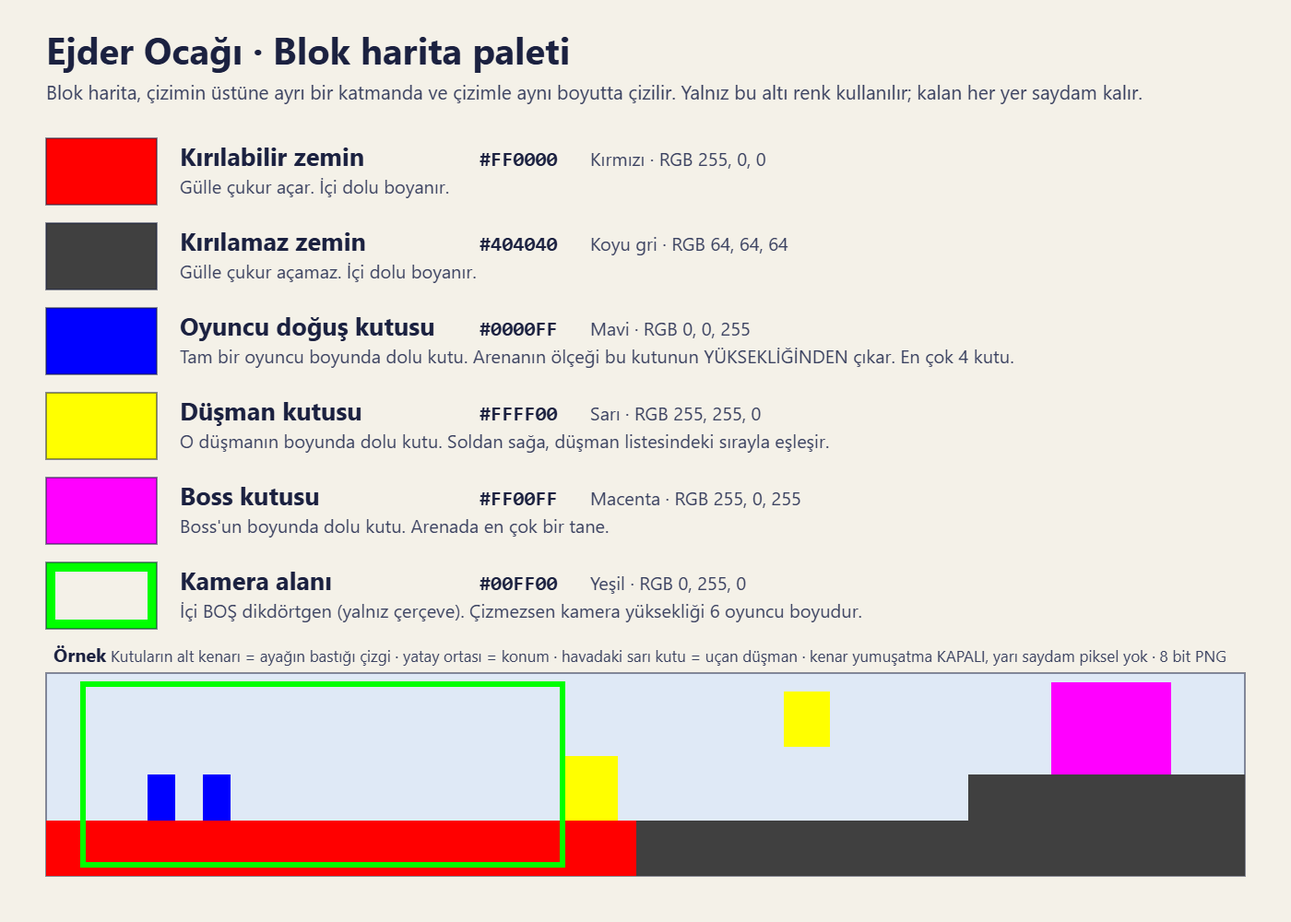
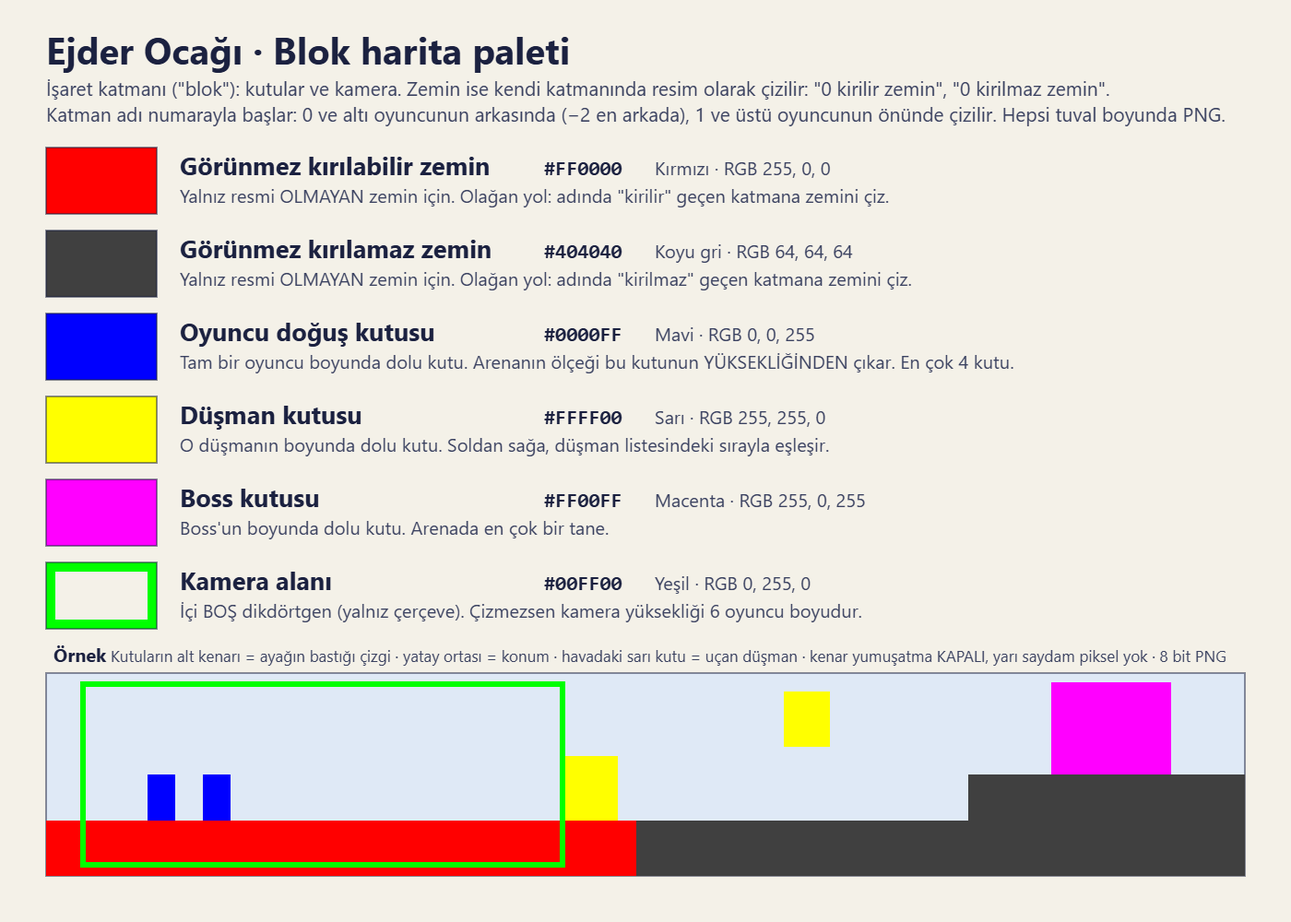
Arena katmanlari: numarali Krita katmanlari (0 ve alti oyuncunun arkasi, 1 ve ustu onu), kirilir ve kirilmaz zemin katmanlari resimden okunur, gulle kirilir zemin resmini oyar; palet ve belge guncel

diff --git a/eo2/js/battle.js b/eo2/js/battle.js
@@ -88,8 +88,8 @@
   const solid = (T, wx, wy) => { const i = Math.floor(wx * MP), j = Math.floor(wy * MP); return i >= 0 && j >= 0 && i < MW && j < MH && T.mask[j * MW + i] > 0; };
   function carve(T, cx, cy, rad) { if (M && M.cfg && M.cfg.kirilmaz) return;   // kırılmaz zemin (ör. Şahmeran'ın defilesi): gülle çukur açmaz
     const r2 = rad * rad; for (let j = Math.max(0, Math.floor((cy - rad) * MP)); j <= Math.min(MH - 1, Math.ceil((cy + rad) * MP)); j++) for (let i = Math.max(0, Math.floor((cx - rad) * MP)); i <= Math.min(MW - 1, Math.ceil((cx + rad) * MP)); i++) { const dx = (i + 0.5) / MP - cx, dy = (j + 0.5) / MP - cy; if (dx * dx + dy * dy < r2 && T.mask[j * MW + i] === 1) { T.mask[j * MW + i] = 0;   // 2 = kırılmaz hücre (blok haritada koyu gri): gülle açamaz
-        if (T.delik) { T.x.fillStyle = 'rgb(9,12,26)'; T.x.beginPath(); T.x.arc((i + 0.5) / MP * TP, (FH - (j + 0.5) / MP) * TP, TP / MP * 0.85, 0, 6.3); T.x.fill(); } } }   // sahne resimli arenada çukur koyu oyuk olarak görünür
-    if (T.delik) return;
+        if (T.delik && !(M.katman && M.katman.some(k => k.cv))) { T.x.fillStyle = 'rgb(9,12,26)'; T.x.beginPath(); T.x.arc((i + 0.5) / MP * TP, (FH - (j + 0.5) / MP) * TP, TP / MP * 0.85, 0, 6.3); T.x.fill(); } } }   // çizimi olmayan (blok haritada kırmızı) zeminde çukur koyu oyuk olarak görünür
+    if (T.delik) { const sh = M.cfg.sahne; if (sh && M.katman) for (const k of M.katman) if (k.cv) { const g = k.cv.getContext('2d'); g.save(); g.globalCompositeOperation = 'destination-out'; g.beginPath(); g.arc(cx * sh.ppu, k.cv.height - (cy - (sh.taban || 0)) * sh.ppu, rad * sh.ppu, 0, 6.3); g.fill(); g.restore(); } return; }   // kırılabilir zemin katmanının resmi oyulur: arkadaki katmanlar görünür
     const x = T.x, px = cx * TP, py = (FH - cy) * TP; x.save(); x.globalCompositeOperation = 'destination-out'; x.beginPath(); for (let a = 0; a <= 6.3; a += 0.3) { const rr = rad * TP * (0.94 + Math.sin(a * 5 + cx) * 0.06); a === 0 ? x.moveTo(px + rr, py) : x.lineTo(px + Math.cos(a) * rr, py + Math.sin(a) * rr); } x.closePath(); x.fill();
     x.globalCompositeOperation = 'source-atop'; const g = x.createRadialGradient(px, py, rad * TP * 0.9, px, py, rad * TP * 1.45); g.addColorStop(0, T.Tm.oyuk); g.addColorStop(1, 'rgba(0,0,0,0)'); x.fillStyle = g; x.beginPath(); x.arc(px, py, rad * TP * 1.45, 0, 6.3); x.fill();
     x.lineWidth = 3; x.strokeStyle = T.Tm.cizgi; x.beginPath(); x.arc(px, py, rad * TP * 0.99, 0, 6.3); x.stroke(); x.restore();
@@ -171,11 +171,12 @@
   async function ac(cfg) {
     if (M && M.on) kapat(true); ensureDom(); const api = EO2.api, T = buildTerrain(cfg.arazi);
     const setler = new Set(['temel']); if (cfg.oyuncu && cfg.oyuncu.set) setler.add(cfg.oyuncu.set); if (cfg.rakip && cfg.rakip.set) setler.add(cfg.rakip.set);
-    const bek = []; for (const s of setler) bek.push(load('assets/battle_' + s + '.webp')); if (cfg.bg) bek.push(load(cfg.bg)); if (cfg.sahne) bek.push(load(cfg.sahne.src));
+    const bek = []; for (const s of setler) bek.push(load('assets/battle_' + s + '.webp')); if (cfg.bg) bek.push(load(cfg.bg)); if (cfg.sahne) for (const k of cfg.sahne.katman) bek.push(load(k.src));
     const tipler = [...(cfg.moblar || []).map(m => MOB[m.tip]), cfg.boss ? BOSS[cfg.boss.tip] : null].filter(Boolean); for (const t of tipler) for (const k in t.spr) if (typeof t.spr[k] === 'string' && /\.webp$/.test(t.spr[k])) bek.push(load(t.spr[k])); for (const p of (cfg.props || [])) if (PROP[p.tip] && PROP[p.tip].im) bek.push(load(PROP[p.tip].im));
     await Promise.all(bek);
+    const katman = cfg.sahne ? cfg.sahne.katman.map(k => { const im = imgs[k.src]; if (!im) return null; const o = { im, z: k.z, zemin: k.zemin }; if (k.zemin === 'kirilir') { o.cv = document.createElement('canvas'); o.cv.width = im.naturalWidth; o.cv.height = im.naturalHeight; o.cv.getContext('2d').drawImage(im, 0, 0); } return o; }).filter(Boolean) : null;
     if (!cfg.bg && !cfg.sahne && !talimBg) { talimBg = buildBackdrop(); talimProps = buildProps(); const art = EO2.art, E = api.W.E; poles = [art.bannerPole(E, '#213270').c, art.bannerPole(E, '#bb362f').c]; }
-    M = { on: true, cfg, T, time: 0, tur: 1, faz: 'giris', pt: 0, timer: 25, wind: 0, charge: 0, charging: false, shots: [], parts: [], nums: [], bolge: [], lav: [], isin: [], dalga: [], zaman: [], shake: 0, stop: 0, over: false, keys: {}, cam: { x: 32, y: 12, z: 0.5 },
+    M = { on: true, cfg, T, katman, time: 0, tur: 1, faz: 'giris', pt: 0, timer: 25, wind: 0, charge: 0, charging: false, shots: [], parts: [], nums: [], bolge: [], lav: [], isin: [], dalga: [], zaman: [], shake: 0, stop: 0, over: false, keys: {}, cam: { x: 32, y: 12, z: 0.5 },
       act: [], props: [], sira: [], si: -1, aktif: null, ist: { hasar: 0, tur: 1, kritik: 0, kombo: 0, enKombo: 0, mob: 0 }, ortam: Array.from({ length: 34 }, () => ({ x: Math.random(), y: Math.random(), s: 0.5 + Math.random() * 0.8, p: Math.random() * 6 })), tick: 0 };
     M.sonuc = new Promise(res => { M.bitir = res; }); M.deniz = cfg.deniz != null ? Y_(cfg.deniz) : null; M.cikis = cfg.cikis || null; M.ruzgarSirasi = cfg.ruzgar || null;
     const O = cfg.oyuncu || {}, pset = imgs['assets/battle_' + O.set] ? O.set : 'temel';
@@ -460,9 +461,9 @@
     const x = cv.getContext('2d'), n = M.cfg.bg || M.cfg.sahne ? 0 : (EO2.state ? EO2.state.night : 0), c = M.cam, dik = W / H < 1, kb = !dik && M.cfg.kameraBoy ? M.cfg.kameraBoy * 1.7 : 0, sc = (kb ? H / kb : (W / 22) * (dik ? 1.9 : 1)) * c.z, viewW = W / sc, viewH = H / sc, AE = M.cfg.arenaEn || FW, pay = 2;
     const cx = clamp(c.x, Math.min(AE / 2, viewW / 2 - pay), Math.max(AE / 2, AE - viewW / 2 + pay)) + (Math.random() - 0.5) * M.shake * 0.5, cy = clamp(c.y, viewH / 2 - pay, 40) + (Math.random() - 0.5) * M.shake * 0.5;
     const X = wx => (wx - cx) * sc + W / 2, Y = wy => H / 2 - (wy - cy) * sc + H * 0.02; M.view = { X, Y, sc, W, H };
-    x.setTransform(1, 0, 0, 1, 0, 0); const T = M.T, Tm = T.Tm, bgI = M.cfg.bg ? imgs[M.cfg.bg] : null, sh = M.cfg.sahne, shI = sh ? imgs[sh.src] : null;
+    x.setTransform(1, 0, 0, 1, 0, 0); const T = M.T, Tm = T.Tm, bgI = M.cfg.bg ? imgs[M.cfg.bg] : null, sh = M.cfg.sahne, shI = sh && M.katman && M.katman.length ? M.katman[0].im : null;
     if (shI) { // dünyaya kilitli sahne resmi (cfg.sahne = { src, ppu: birim başına resim pikseli, ust, alt }): resim dünya boyunca uzanır, zemin çizgisi araziyle çakışır; arazi ayrıca çizilmez
-      const kk = sc / sh.ppu, ih = shI.naturalHeight * kk, iy = Y(sh.taban || 0) - ih; x.fillStyle = sh.alt; x.fillRect(0, 0, W, H); x.fillStyle = sh.ust; x.fillRect(0, 0, W, Math.max(0, iy + 2)); x.drawImage(shI, X(0), iy, shI.naturalWidth * kk, ih);   // resmin sol alt köşesi dünyada (0, taban); ölçek blok haritadaki mavi kutudan
+      const kk = sc / sh.ppu, ih = shI.naturalHeight * kk, iy = Y(sh.taban || 0) - ih; x.fillStyle = sh.alt; x.fillRect(0, 0, W, H); x.fillStyle = sh.ust; x.fillRect(0, 0, W, Math.max(0, iy + 2)); for (const k of M.katman) if (k.z <= 0) x.drawImage(k.cv || k.im, X(0), iy, shI.naturalWidth * kk, ih);   // 0 ve altı: oyuncunun arkası (küçük numara daha arkada)   // resmin sol alt köşesi dünyada (0, taban); ölçek blok haritadaki mavi kutudan
     } else if (bgI) { // eski oyunun sahne çizimi: ekranı kaplar, kamerayla hafifçe kayar
       const k = Math.max(W / bgI.naturalWidth, H / bgI.naturalHeight) * 1.14, bw = bgI.naturalWidth * k, bh = bgI.naturalHeight * k, ox = (W - bw) / 2 - (cx - 32) / 32 * (bw - W) * 0.42, oy = (H - bh) / 2 + (cy - 12) * sc * 0.05;
       x.fillStyle = '#060a1c'; x.fillRect(0, 0, W, H); x.drawImage(bgI, ox, clamp(oy, H - bh, 0), bw, bh);
@@ -509,6 +510,7 @@
       x.drawImage(im, sx, sy, m.cw, m.ch, -m.ax * s, -m.ay * s + 3, m.cw * s, m.ch * s);
       if (a.hurtT > 0.42) { x.globalCompositeOperation = 'lighter'; x.globalAlpha = (a.hurtT - 0.42) / 0.13 * 0.8; x.drawImage(im, sx, sy, m.cw, m.ch, -m.ax * s, -m.ay * s + 3, m.cw * s, m.ch * s); x.globalCompositeOperation = 'source-over'; } x.restore();
       if (a.yoldas && !a.dead) { x.font = '700 ' + Math.max(11, 0.3 * sc) + "px 'Alegreya Sans', sans-serif"; x.textAlign = 'center'; x.lineWidth = 3; x.strokeStyle = '#06202a'; x.fillStyle = '#9fe8d0'; x.strokeText(a.ad, X(a.x), Y(a.y + 2.55)); x.fillText(a.ad, X(a.x), Y(a.y + 2.55)); } }
+    if (shI) { const kk = sc / sh.ppu, ih = shI.naturalHeight * kk, iy = Y(sh.taban || 0) - ih; for (const k of M.katman) if (k.z > 0) x.drawImage(k.cv || k.im, X(0), iy, shI.naturalWidth * kk, ih); }   // 1 ve üstü: oyuncunun önü
     // zayıf nokta nişanı: güç toplarken ya da boss açık verdiğinde
     const b = M.boss; if (b && !b.dead && b.D.zayif && (M.charging && M.aktif === M.ben || b.acik)) for (const z of b.D.zayif(b)) { x.strokeStyle = b.acik ? 'rgba(143,255,224,.95)' : 'rgba(255,224,138,.9)'; x.lineWidth = Math.max(2, 0.05 * sc); x.setLineDash([0.16 * sc, 0.16 * sc]); x.beginPath(); x.arc(X(z.x), Y(z.y), z.r * sc, 0, 6.3); x.stroke(); x.setLineDash([]); x.font = '800 ' + Math.max(11, 0.34 * sc) + "px 'Alegreya Sans', sans-serif"; x.textAlign = 'center'; x.fillStyle = '#ffe08a'; x.strokeStyle = '#0f1a40'; x.lineWidth = 3; x.strokeText(z.ad, X(z.x), Y(z.y + z.r) - 6); x.fillText(z.ad, X(z.x), Y(z.y + z.r) - 6); }
     // nişan çizgisi ve yörünge ipucu (yalnız oyuncunun sırası)

diff --git a/eo2/js/arena_veri.js b/eo2/js/arena_veri.js
@@ -3,8 +3,8 @@
 (function (kok) {
   'use strict';
   const ARENA = {
-    "zumrut-defile": {"ad":"Şahmeran'ın Defilesi","alt":"Yılan Kraliçe yükseltide bekliyor","ipucu":"Zemin kırılmaz. Altın tacı zayıf noktasıdır. Her tur yerdeki halkadan çık, sonra ateş et.","tema":"sirca","ortam":"spor","sahne":{"src":"arenalar/zumrut-defile/sahne.webp","ust":"#0d3327","alt":"#0a2a20"},"ppu":70,"en":63.7,"boy":13.44,"taban":7.375,"px":[4459,941],"kameraBoy":6,"kamera":null,"oyuncu":[{"x":3,"y":11.06,"h":1.7,"w":1.03},{"x":5.8,"y":11.06,"h":1.7,"w":1.03},{"x":8.61,"y":11.06,"h":1.7,"w":1.03},{"x":11.43,"y":11.06,"h":1.7,"w":1.03}],"dusman":[{"tip":"zs_agir","ad":"Sırça Taht Muhafızı","hp":640,"fizik":true,"hayalet":false,"x":29.23,"y":11.06,"h":2.4,"w":3.71},{"tip":"zs_agir","ad":"Sırça Taht Muhafızı","hp":640,"fizik":true,"hayalet":false,"x":38.97,"y":11.06,"h":2.4,"w":3.71}],"boss":{"tip":"sahmeran_v3","ad":"Yılan Kraliçe Şahmeran","unvan":"Zümrüt Saray'ın ebedi hükümdarı","hp":3600,"x":51.71,"y":13.03,"h":6.8,"w":6},"maske":[0,30208,2,510,0,2,2,510,0,2,2,510,0,2,2,510,0,2,2,510,0,2,2,510,0,2,2,510,0,2,2,510,0,2,2,510,0,2,2,510,0,2,2,510,0,2,2,510,0,2,2,510,0,2,2,510,0,2,2,510,0,2,2,510,0,2,2,510,0,2,2,510,0,2,2,510,0,2,2,510,0,2,2,510,0,2,2,510,0,2,2,510,0,2,2,510,0,2,2,510,0,2,2,510,0,2,2,510,0,2,2,510,0,2,2,510,0,362,2,150,0,363,2,149,0,364,2,148,0,365,2,147,0,366,2,146,0,367,2,145,0,369,2,143,0,370,2,142,0,371,2,141,0,372,2,140,0,373,2,139,0,374,2,138,0,376,2,136,0,377,2,135,0,378,2,134,0,379,2,133,0,69634]},
-    "zumrut-kopru": {"ad":"Zümrüt Saray Köprüsü","alt":"Yılanlar iki yandan geliyor","ipucu":"Yılanlar iki yandan gelir. Fareyi çevirdiğin yana döner, o yana ateş edersin. Önce yaklaşanı vur.","tema":"sirca","ortam":"spor","sahne":{"src":"arenalar/zumrut-kopru/sahne.webp","ust":"#6fafFd","alt":"#e8f2fb"},"ppu":87.647,"en":63.85,"boy":14.73,"taban":6.625,"px":[5596,1291],"kameraBoy":6,"kamera":null,"oyuncu":[{"x":26.29,"y":10.94,"h":1.7,"w":1.03},{"x":29.11,"y":10.94,"h":1.7,"w":1.03},{"x":31.92,"y":10.94,"h":1.7,"w":1.03},{"x":34.74,"y":10.94,"h":1.7,"w":1.03}],"dusman":[{"tip":"viper","ad":"Uçan Sırça Engereği","hp":800,"fizik":false,"hayalet":false,"x":7.13,"y":18.66,"h":2.69,"w":2.62},{"tip":"zs_vurucu","ad":"Bronz Engerek Muhafızı","hp":760,"fizik":true,"hayalet":false,"x":14.27,"y":10.94,"h":2.4,"w":3.65},{"tip":"zs_vurucu","ad":"Bronz Engerek Muhafızı","hp":760,"fizik":true,"hayalet":false,"x":49.57,"y":10.94,"h":2.4,"w":3.65},{"tip":"viper","ad":"Uçan Sırça Engereği","hp":800,"fizik":false,"hayalet":false,"x":56.72,"y":18.66,"h":2.69,"w":2.62}],"boss":null,"maske":[0,27136,2,511,0,1,2,511,0,1,2,511,0,1,2,511,0,1,2,511,0,1,2,511,0,1,2,511,0,1,2,511,0,1,2,511,0,1,2,511,0,1,2,511,0,1,2,511,0,1,2,511,0,1,2,511,0,1,2,511,0,1,2,511,0,1,2,511,0,1,2,511,0,1,2,511,0,1,2,511,0,1,2,511,0,1,2,511,0,1,2,511,0,1,2,511,0,1,2,511,0,1,2,511,0,1,2,511,0,1,2,511,0,1,2,511,0,1,2,511,0,1,2,511,0,1,2,511,0,1,2,511,0,1,2,511,0,1,2,511,0,77825]}
+    "zumrut-defile": {"ad":"Şahmeran'ın Defilesi","alt":"Yılan Kraliçe yükseltide bekliyor","ipucu":"Zemin kırılmaz. Altın tacı zayıf noktasıdır. Her tur yerdeki halkadan çık, sonra ateş et.","tema":"sirca","ortam":"spor","sahne":{"ust":"#0d3327","alt":"#0a2a20"},"katman":[{"src":"arenalar/zumrut-defile/sahne.webp","z":-1}],"ppu":70,"en":63.7,"boy":13.44,"taban":7.375,"px":[4459,941],"kameraBoy":6,"kamera":null,"oyuncu":[{"x":3,"y":11.06,"h":1.7,"w":1.03},{"x":5.8,"y":11.06,"h":1.7,"w":1.03},{"x":8.61,"y":11.06,"h":1.7,"w":1.03},{"x":11.43,"y":11.06,"h":1.7,"w":1.03}],"dusman":[{"tip":"zs_agir","ad":"Sırça Taht Muhafızı","hp":640,"fizik":true,"hayalet":false,"x":29.23,"y":11.06,"h":2.4,"w":3.71},{"tip":"zs_agir","ad":"Sırça Taht Muhafızı","hp":640,"fizik":true,"hayalet":false,"x":38.97,"y":11.06,"h":2.4,"w":3.71}],"boss":{"tip":"sahmeran_v3","ad":"Yılan Kraliçe Şahmeran","unvan":"Zümrüt Saray'ın ebedi hükümdarı","hp":3600,"x":51.71,"y":13.03,"h":6.8,"w":6},"maske":[0,30208,2,510,0,2,2,510,0,2,2,510,0,2,2,510,0,2,2,510,0,2,2,510,0,2,2,510,0,2,2,510,0,2,2,510,0,2,2,510,0,2,2,510,0,2,2,510,0,2,2,510,0,2,2,510,0,2,2,510,0,2,2,510,0,2,2,510,0,2,2,510,0,2,2,510,0,2,2,510,0,2,2,510,0,2,2,510,0,2,2,510,0,2,2,510,0,2,2,510,0,2,2,510,0,2,2,510,0,2,2,510,0,2,2,510,0,362,2,150,0,363,2,149,0,364,2,148,0,365,2,147,0,366,2,146,0,367,2,145,0,369,2,143,0,370,2,142,0,371,2,141,0,372,2,140,0,373,2,139,0,374,2,138,0,376,2,136,0,377,2,135,0,378,2,134,0,379,2,133,0,69634]},
+    "zumrut-kopru": {"ad":"Zümrüt Saray Köprüsü","alt":"Yılanlar iki yandan geliyor","ipucu":"Yılanlar iki yandan gelir. Fareyi çevirdiğin yana döner, o yana ateş edersin. Önce yaklaşanı vur.","tema":"sirca","ortam":"spor","sahne":{"ust":"#6fafFd","alt":"#e8f2fb"},"katman":[{"src":"arenalar/zumrut-kopru/sahne.webp","z":-1}],"ppu":87.647,"en":63.85,"boy":14.73,"taban":6.625,"px":[5596,1291],"kameraBoy":6,"kamera":null,"oyuncu":[{"x":26.29,"y":10.94,"h":1.7,"w":1.03},{"x":29.11,"y":10.94,"h":1.7,"w":1.03},{"x":31.92,"y":10.94,"h":1.7,"w":1.03},{"x":34.74,"y":10.94,"h":1.7,"w":1.03}],"dusman":[{"tip":"viper","ad":"Uçan Sırça Engereği","hp":800,"fizik":false,"hayalet":false,"x":7.13,"y":18.66,"h":2.69,"w":2.62},{"tip":"zs_vurucu","ad":"Bronz Engerek Muhafızı","hp":760,"fizik":true,"hayalet":false,"x":14.27,"y":10.94,"h":2.4,"w":3.65},{"tip":"zs_vurucu","ad":"Bronz Engerek Muhafızı","hp":760,"fizik":true,"hayalet":false,"x":49.57,"y":10.94,"h":2.4,"w":3.65},{"tip":"viper","ad":"Uçan Sırça Engereği","hp":800,"fizik":false,"hayalet":false,"x":56.72,"y":18.66,"h":2.69,"w":2.62}],"boss":null,"maske":[0,27136,2,511,0,1,2,511,0,1,2,511,0,1,2,511,0,1,2,511,0,1,2,511,0,1,2,511,0,1,2,511,0,1,2,511,0,1,2,511,0,1,2,511,0,1,2,511,0,1,2,511,0,1,2,511,0,1,2,511,0,1,2,511,0,1,2,511,0,1,2,511,0,1,2,511,0,1,2,511,0,1,2,511,0,1,2,511,0,1,2,511,0,1,2,511,0,1,2,511,0,1,2,511,0,1,2,511,0,1,2,511,0,1,2,511,0,1,2,511,0,1,2,511,0,1,2,511,0,1,2,511,0,1,2,511,0,1,2,511,0,77825]}
   };
   if (typeof module !== 'undefined' && module.exports) module.exports = ARENA; else kok.EO2_ARENA = ARENA;
 })(typeof window !== 'undefined' ? window : this);

diff --git a/tests/zindan_tarif.test.js b/tests/zindan_tarif.test.js
@@ -18,7 +18,7 @@ test('her zindan tarifi tam: yazılar, ödül kaynağı, arenalar; her arenanın
     assert.ok(new RegExp('\\b' + Z.odul + ': \\{ ad:').test(veri), k + ': odul "' + Z.odul + '" js/topcu_veri.js ZINDAN içinde yok');
     assert.ok(Array.isArray(Z.asama) && Z.asama.length >= 1, k + ': en az bir aşama');
     Z.asama.forEach((ad, i) => { const A = ARENA[ad]; assert.ok(A, k + ': "' + ad + '" arenası derlenmemiş (eo2/arenalar/' + ad + ' ve node eo2/tools/arena_derle.mjs)');
-      assert.ok(fs.existsSync(path.join(kok, A.sahne.src)), ad + ': sahne resmi yok'); assert.ok(A.en <= 64 && A.taban + A.boy <= 30 && A.ppu > 0, ad + ': ölçü');
+      assert.ok(A.katman.length >= 1); for (const k of A.katman) assert.ok(fs.existsSync(path.join(kok, decodeURIComponent(k.src))), ad + ': katman resmi yok: ' + k.src); assert.ok(A.en <= 64 && A.taban + A.boy <= 30 && A.ppu > 0, ad + ': ölçü');
       assert.ok(A.oyuncu.length >= 1 && Math.abs(A.oyuncu[0].h - 1.7) < 0.02, ad + ': mavi kutu oyuncu boyunda');
       const dus = A.dusman.concat(A.boss ? [A.boss] : []); assert.ok(dus.length >= 1);
       for (const q of dus) { assert.ok(q.x > 0 && q.x < A.en && q.h > 0.5, ad + ': ' + q.ad + ' yeri ve boyu'); assert.ok(veri.includes(q.tip + ':') || veri.includes('.' + q.tip + ' ='), ad + ': "' + q.tip + '" js/topcu_veri.js içinde tanımlı değil'); }
@@ -42,11 +42,26 @@ test('blok harita okuyucu: ölçek mavi kutudan, zemin kırılır ve kırılmaz,
   const m = new Uint8Array(512 * 240); let p = 0; for (let i = 0; i < b.maske.length; i += 2) { m.fill(b.maske[i], p, p + b.maske[i + 1]); p += b.maske[i + 1]; } assert.equal(p, 512 * 240);
   const hucre = (x, y) => m[Math.floor(y * 8) * 512 + Math.floor(x * 8)]; assert.equal(hucre(10, 10.9), 1); assert.equal(hucre(40, 10.9), 2); assert.equal(hucre(10, 11.1), 0); assert.equal(hucre(40, 6.1), 2); assert.equal(hucre(40, 5.9), 0);
   const json = { ad: 'A', alt: 'B', ipucu: 'C', tema: 'sirca', ortam: 'spor', ust: '#000', altRenk: '#000', dusman: [{ tip: 'viper', ad: 'Uçan', hp: 10, fizik: false, hayalet: true }, { tip: 'cobra', ad: 'Yerde', hp: 20 }], boss: { tip: 'sahmeran', ad: 'Boss', unvan: 'U', hp: 30 } };
-  const A = arenaKur('deneme', json, b); assert.deepEqual(A.dusman.map(q => [q.fizik, q.hayalet, q.hp]), [[false, true, 10], [true, false, 20]]); assert.equal(A.kameraBoy, 6); assert.equal(A.boss.h, 6.8);
+  const A = arenaKur('deneme', json, b, [{ src: 'x', z: -1 }]); assert.deepEqual(A.dusman.map(q => [q.fizik, q.hayalet, q.hp]), [[false, true, 10], [true, false, 20]]); assert.equal(A.kameraBoy, 6); assert.equal(A.boss.h, 6.8);
   assert.throws(() => arenaKur('deneme', Object.assign({}, json, { dusman: json.dusman.slice(1) }), b), /1 düşman sayıyor, blok haritada 2 sarı kutu/);
   assert.throws(() => arenaKur('deneme', Object.assign({}, json, { boss: null }), b), /macenta|boss/);
   const bos = Buffer.alloc(w * h * 4); assert.throws(() => blokOku({ w, h, rgba: bos }, 'bos'), /mavi oyuncu kutusu yok/);
   dolu(40, 133, 50, 150, [0, 0, 0]); dolu(40, 140, 50, 150, RENK.oyuncu); assert.throws(() => blokOku({ w, h, rgba: d }, 'buyuk'), /çok büyük/);
+});
+
+test('katman dosyaları: numara çizim sırasını, addaki "kirilir" ve "kirilmaz" zemini söyler; zemin katmanı haritaya işlenir', async () => {
+  const { katmanlariBul, blokOku, RENK } = await import('../eo2/tools/arena_derle.mjs');
+  const K = katmanlariBul(['1 ön perde.webp', 'blok.png', '0 Kırılmaz kaya.png', '-2_gokyuzu.png', 'arena.json', '0 kirilir zemin.png', 'calisma.kra', '-1 duvar.png'], 'd');
+  assert.deepEqual(K.map(k => [k.z, k.zemin, k.dosya]), [[-2, null, '-2_gokyuzu.png'], [-1, null, '-1 duvar.png'], [0, 'kirilmaz', '0 Kırılmaz kaya.png'], [0, 'kirilir', '0 kirilir zemin.png'], [1, null, '1 ön perde.webp']]);
+  assert.deepEqual(katmanlariBul(['sahne.webp', 'blok.png'], 'd').map(k => k.z), [-1], 'eski tek resimli biçim: sahne = −1');
+  assert.throws(() => katmanlariBul(['arka plan.png'], 'd'), /numarasıyla başlamalı/); assert.throws(() => katmanlariBul(['0 kirilir zemin.webp'], 'd'), /PNG olmalı/); assert.throws(() => katmanlariBul(['blok.png'], 'd'), /hiç katman/);
+  const w = 640, h = 200, bos = () => Buffer.alloc(w * h * 4), dolu = (d, x0, y0, x1, y1, c, a = 255) => { for (let y = y0; y < y1; y++) for (let x = x0; x < x1; x++) { const i = (y * w + x) * 4; d[i] = c[0]; d[i + 1] = c[1]; d[i + 2] = c[2]; d[i + 3] = a; } };
+  const blok = bos(), zemin = bos(), kaya = bos(); dolu(blok, 40, 133, 50, 150, RENK.oyuncu); dolu(blok, 500, 126, 520, 150, RENK.dusman);
+  dolu(zemin, 0, 150, 640, 200, [120, 80, 50]); dolu(zemin, 0, 140, 640, 150, [60, 150, 60], 90); dolu(kaya, 320, 150, 640, 200, [90, 90, 100]);
+  const b = blokOku({ w, h, rgba: blok }, 'd', [{ tip: 'kirilir', rgba: zemin }, { tip: 'kirilmaz', rgba: kaya }]);
+  const m = new Uint8Array(512 * 240); let p = 0; for (let i = 0; i < b.maske.length; i += 2) { m.fill(b.maske[i], p, p + b.maske[i + 1]); p += b.maske[i + 1]; }
+  const hucre = (x, y) => m[Math.floor(y * 8) * 512 + Math.floor(x * 8)];
+  assert.equal(hucre(10, 10.9), 1, 'çizilen yer kırılabilir zemin'); assert.equal(hucre(40, 10.9), 2, 'kırılmaz katman kırılırın üstüne yazar'); assert.equal(hucre(10, 11.5), 0, 'yarıdan saydam çizim (çim ucu) zemin sayılmaz');
 });
 
 test('oyun tarif dosyasını zindan kodundan önce yükler', () => {

diff --git a/eo2/js/zindan_ortak.js b/eo2/js/zindan_ortak.js
@@ -28,7 +28,7 @@
   const maskeAc = rle => { const m = new Uint8Array(512 * 240); let p = 0; for (let i = 0; i < rle.length; i += 2) { if (rle[i]) m.fill(rle[i], p, p + rle[i + 1]); p += rle[i + 1]; } return m; };
   const hazirAsama = {}, asamalar = k => { k = k || zid(); return hazirAsama[k] || (hazirAsama[k] = tarif(k).asama.map(ad => { const A = ARENA[ad], PX = B.api.PX;
     return { ad: A.ad, alt: A.alt, ipucu: A.ipucu, tema: A.tema, ortam: A.ortam, en: A.en, kameraBoy: A.kamera ? Math.round(A.kamera.h / 1.7 * 100) / 100 : A.kameraBoy, oyuncu: A.oyuncu, maske: maskeAc(A.maske),
-      sahne: { src: A.sahne.src, ppu: A.ppu, taban: A.taban, ust: A.sahne.ust, alt: A.sahne.alt }, mobSinir: [1.2 * PX, (A.en - 1.2) * PX],
+      sahne: { katman: A.katman, ppu: A.ppu, taban: A.taban, ust: A.sahne.ust, alt: A.sahne.alt }, mobSinir: [1.2 * PX, (A.en - 1.2) * PX],
       moblar: A.dusman.map(m => Object.assign({ tip: m.tip, ad: m.ad, x: m.x * PX, h: m.h, hayalet: m.hayalet }, m.fizik ? {} : { ucan: true, yW: m.y })),
       boss: A.boss ? { tip: A.boss.tip, ad: A.boss.ad, unvan: A.boss.unvan, x: A.boss.x * PX, h: A.boss.h } : null }; })); };
   /* doğuş yeri: gruptaki sıraya göre mavi kutulardan biri; kutu yetmezse ilk kutunun çevresine dizilir (dünya birimi) */

diff --git a/eo2/docs/ZINDAN_YONTEMI.md b/eo2/docs/ZINDAN_YONTEMI.md
@@ -17,15 +17,26 @@ Kapsam: PvE zindan aşamaları ve PvP arenaları aynı yöntemle kurulur. "KARAR
 
 ## 2. Bir arena = bir klasör
 
-`eo2/arenalar/<ad>/` (ad: küçük harf, rakam, tire). İçinde üç dosya:
+`eo2/arenalar/<ad>/` (ad: küçük harf, rakam, tire). İçinde:
 
 | Dosya | Ne |
 |---|---|
-| `sahne.webp` | Arenanın çizimi, tek resim (modüller önceden bir araçla dizilir; örnek `eo2/tools/zumrut_sahne.mjs`). Boss, düşman ve oyuncu gömülmez. |
-| `blok.png` | Krita'da çizimin üstüne, çizimle **aynı boyutta** çizilen blok harita. 8 bit PNG, kenar yumuşatma kapalı. |
-| `arena.json` | Haritadan okunamayanlar: yazılar ve düşman listesi. |
+| Numaralı katman resimleri | Krita katmanlarının dışa aktarımı. Dosya adı katman numarasıyla başlar. |
+| `blok.png` | İşaret katmanı: oyuncu, düşman ve boss kutuları, kamera çerçevesi. |
+| `arena.json` | Yazılar ve düşman listesi. |
 
 Sonra `node eo2/tools/arena_derle.mjs` çalıştırılır: bütün klasörleri okur, `eo2/js/arena_veri.js` dosyasını üretir. Oyun ve sunucu yalnız o dosyayı okur. **Yeni arena için kod yazılmaz.** Bir şey eksik ya da tutarsızsa araç, çizen kişinin anlayacağı bir hatayla durur.
+
+### Katmanlar (KARAR, 2026-11-17)
+
+- Katman adı **numarayla başlar**: `-2 gokyuzu.png`, `-1 arka duvar.png`, `0 kirilmaz zemin.png`, `1 on perde.png`.
+- **Oyuncu hep 0'dadır.** 0 ve altı oyuncunun arkasında çizilir (küçük numara daha arkada); 1 ve üstü oyuncunun önünde. Aynı numaralılar ada göre sıralanır.
+- Adında **"kirilir"** geçen katman kırılabilir zemin, **"kirilmaz"** geçen kırılamaz zemindir. O katmana çizdiğin yer zemin olur; gülle kırılabilir katmanın resmini gerçekten oyar ve arkadaki katmanlar görünür.
+- Yarıdan saydam yerler zemin sayılmaz (yumuşak fırçada çarpışma çizgisi, görünen kenarın biraz içindedir). Çarpışmaması gereken süs (sarkan çim, gölge) zemin katmanına değil başka bir katmana çizilir.
+- Bütün katmanlar tuvalin tamamı olarak, **aynı boyda** dışa aktarılır (katman içeriğine göre kırpma kapalı). Zemin katmanları PNG olmalı; ötekiler PNG ya da WebP olabilir.
+- Krita'dan: Araçlar → Betikler → Katmanları Dışa Aktar (Export Layers); "katman içeriğine göre boyut ayarla" kapalı. Dosya adlarının başına ek bir şey koyuyorsa adları numarayla başlayacak biçimde düzelt.
+- Eski tek resimli biçim geçerli: `sahne.webp` = −1 numaralı katman (Zümrüt Saray böyle).
+- SEÇİM: Krita dosyasını (.kra) doğrudan okumak yerine numaralı dışa aktarım seçildi; kullanıcının önerdiği iki yoldan sağlam olanı. Klasördeki .kra dosyası yok sayılır.
 
 ### Blok harita renkleri (KARAR)
 
@@ -33,8 +44,8 @@ Palet: `eo2/docs/blok_harita_paleti.png` (görsel) ve `eo2/docs/blok_harita_pale
 
 | Renk | Hex | Anlam |
 |---|---|---|
-| Kırmızı | `#FF0000` | Kırılabilir zemin |
-| Koyu gri | `#404040` | Kırılamaz zemin |
+| Kırmızı | `#FF0000` | Görünmez kırılabilir zemin (yalnız resmi olmayan zemin için; olağan yol zemin katmanı) |
+| Koyu gri | `#404040` | Görünmez kırılamaz zemin (aynı) |
 | Mavi | `#0000FF` | Oyuncu doğuş kutusu (dolu) |
 | Sarı | `#FFFF00` | Düşman kutusu (dolu) |
 | Macenta | `#FF00FF` | Boss kutusu (dolu) |
@@ -86,8 +97,9 @@ Bugün: düşman ve boss türleri `eo2/js/topcu_veri.js` içinde tanımlı (eski
 
 ## 6. Bugünkü durum ve bilinen eksikler
 
-- Kurulu: klasör + blok harita + derleyici; Zümrüt Saray'ın iki arenası bu yolla çalışıyor (tek kişi ve grup). İki arenanın blok haritası kodla çizildi (`eo2/tools/zumrut_blok.mjs`), Krita'da elle çizilmiş bir harita henüz denenmedi.
-- Kırılabilir (kırmızı) zeminde çukur, çizimin üstünde koyu oyuk olarak görünür; canlı bir arenada denenmedi (eldeki iki arena kırılmaz).
+- Kurulu: klasör + numaralı katmanlar + işaret katmanı + derleyici; Zümrüt Saray'ın iki arenası bu yolla çalışıyor (tek kişi ve grup). İki arenanın blok haritası kodla çizildi (`eo2/tools/zumrut_blok.mjs`), Krita'da elle çizilmiş bir harita henüz denenmedi.
+- Katmanlı arena ve kırılabilir zemin katmanı kodla üretilmiş bir deneme arenasında doğrulandı (gülle zemin resmini oyuyor, kırılmaz katman duruyor, ön katman oyuncunun önünde). Oyunda duran iki arena tek resimli ve kırılmaz; Krita'dan çıkmış gerçek bir katman takımı henüz denenmedi.
+- Katmanlar PNG olarak oyuncuya gider; büyük arenalarda dosya boyu için ayrı bir küçültme adımı gerekebilir.
 - Uçan düşman yerinden kıpırdamaz (eski kural); "hayalet" ayarı okunuyor ama zeminin içinden geçen bir hareket henüz yok.
 - Eski üç zindanın (Sırça Saray'ın dört aşamalı hâli, Volkanik Kaldera, Batık Donanma) tek kişilik seferleri eski yolla duruyor. Zümrüt Saray'ı olan Sırça Saray girişi yeni sisteme gider; öteki ikisi arenaları çizilince taşınacak.
 - PvP arenaları henüz bu yükleyiciye bağlanmadı.
